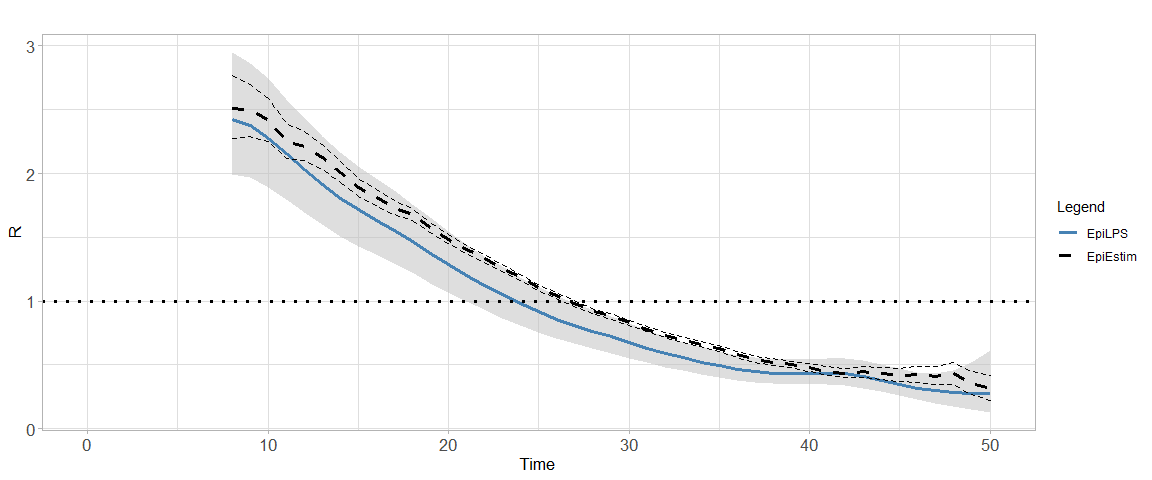
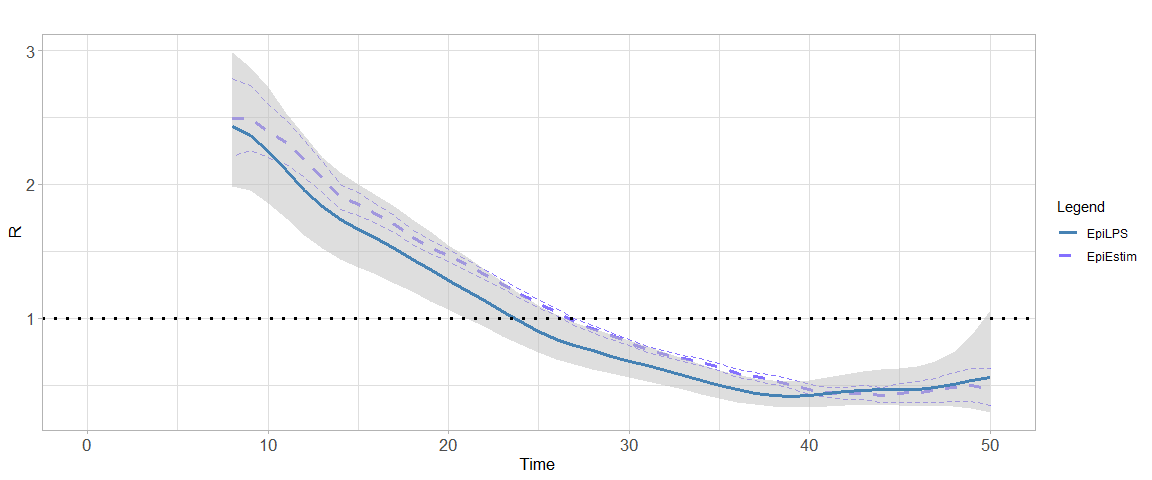
Updating README file

Changed region(s): [[0.0312, 0.1562, 0.875, 0.875], [0.0, 0.0938, 0.875, 0.125], [0.0, 0.875, 0.0312, 0.9062]]

diff --git a/README.md b/README.md
@@ -7,8 +7,10 @@ Oswaldo Gressani
 
 ![Version](https://img.shields.io/badge/Version-1.0.1-lightgrey)
 ![Languages](https://img.shields.io/badge/Languages-R%2C%20C%2B%2B-informational)
-![Lifecycle](https://img.shields.io/badge/lifecycle-experimental-yellow)
+![Lifecycle](https://img.shields.io/badge/lifecycle-postexperimental-yellow)
 ![CodeSize](https://img.shields.io/github/languages/code-size/oswaldogressani/EpiLPS?color=orange&label=Code%20size&style=plastic)
+![UserStars](https://img.shields.io/github/stars/oswaldogressani/EpiLPS?style=social)
+![MyTwitter](https://img.shields.io/twitter/follow/OswaldoGressani?style=social)
 
 ## Aim and scope
 
@@ -125,10 +127,9 @@ The simulated incidence count data can be accessed by typing:
 simepi$y
 ```
 
-    ##  [1]   25    6   26   35   48   58   99  127  180  240  280  412  481  581  666
-    ## [16]  837  952 1103 1140 1217 1293 1294 1294 1253 1188 1062  965  871  802  667
-    ## [31]  517  423  360  283  222  142  128   92   65   49   32   40   23   12   10
-    ## [46]    9    2    3    1    2
+    ##  [1]  19   5  14  28  29  48  70  86 131 162 224 258 319 358 481 543 620 663 750
+    ## [20] 808 815 871 843 815 735 698 602 562 514 407 333 293 250 185 132 104  90  55
+    ## [39]  41  32  26  19  19  12  11   4   4   7   3   4
 
 The `epilps()` routine can be used to fit the epidemic data. By default,
 the LPSMAP approach is used with 30 B-splines in the interval \[1; 50\]
@@ -141,9 +142,9 @@ epifit_LPSMAP <- epilps(incidence = simepi$y, serial_interval = si)
 
     ## Inference method chosen: LPSMAP. 
     ## Total number of days: 50. 
-    ## Mean R(t) discarding first 7 days: 0.966.
-    ## Mean 95% CI of R(t) discarding first 7 days: (0.789,1.188) 
-    ## Elapsed real time (wall clock time): 0.15 seconds.
+    ## Mean R(t) discarding first 7 days: 0.988.
+    ## Mean 95% CI of R(t) discarding first 7 days: (0.8,1.225) 
+    ## Elapsed real time (wall clock time): 0.2 seconds.
 
 ``` r
 plot(epifit_LPSMAP)
@@ -178,13 +179,13 @@ knitr::kable(epifit_LPSMAP$epifit[8:14,2:4])
 
 |     | R\_estim | R95CI\_low | R95CI\_up |
 |:----|---------:|-----------:|----------:|
-| 8   | 2.424164 |   1.993297 |  2.948165 |
-| 9   | 2.374009 |   1.968241 |  2.863429 |
-| 10  | 2.274928 |   1.886469 |  2.743378 |
-| 11  | 2.154359 |   1.799058 |  2.579829 |
-| 12  | 2.030099 |   1.690995 |  2.437206 |
-| 13  | 1.911840 |   1.597277 |  2.288353 |
-| 14  | 1.806181 |   1.504370 |  2.168543 |
+| 8   | 2.434876 |   1.986263 |  2.984814 |
+| 9   | 2.367769 |   1.951509 |  2.872817 |
+| 10  | 2.248764 |   1.855955 |  2.724709 |
+| 11  | 2.102776 |   1.747315 |  2.530550 |
+| 12  | 1.957831 |   1.622245 |  2.362839 |
+| 13  | 1.832747 |   1.524618 |  2.203150 |
+| 14  | 1.735908 |   1.441739 |  2.090099 |
 
 A smooth estimate of the epidemic curve can be obtained with the code
 below. The option `epicol` controls the color of the curve and
